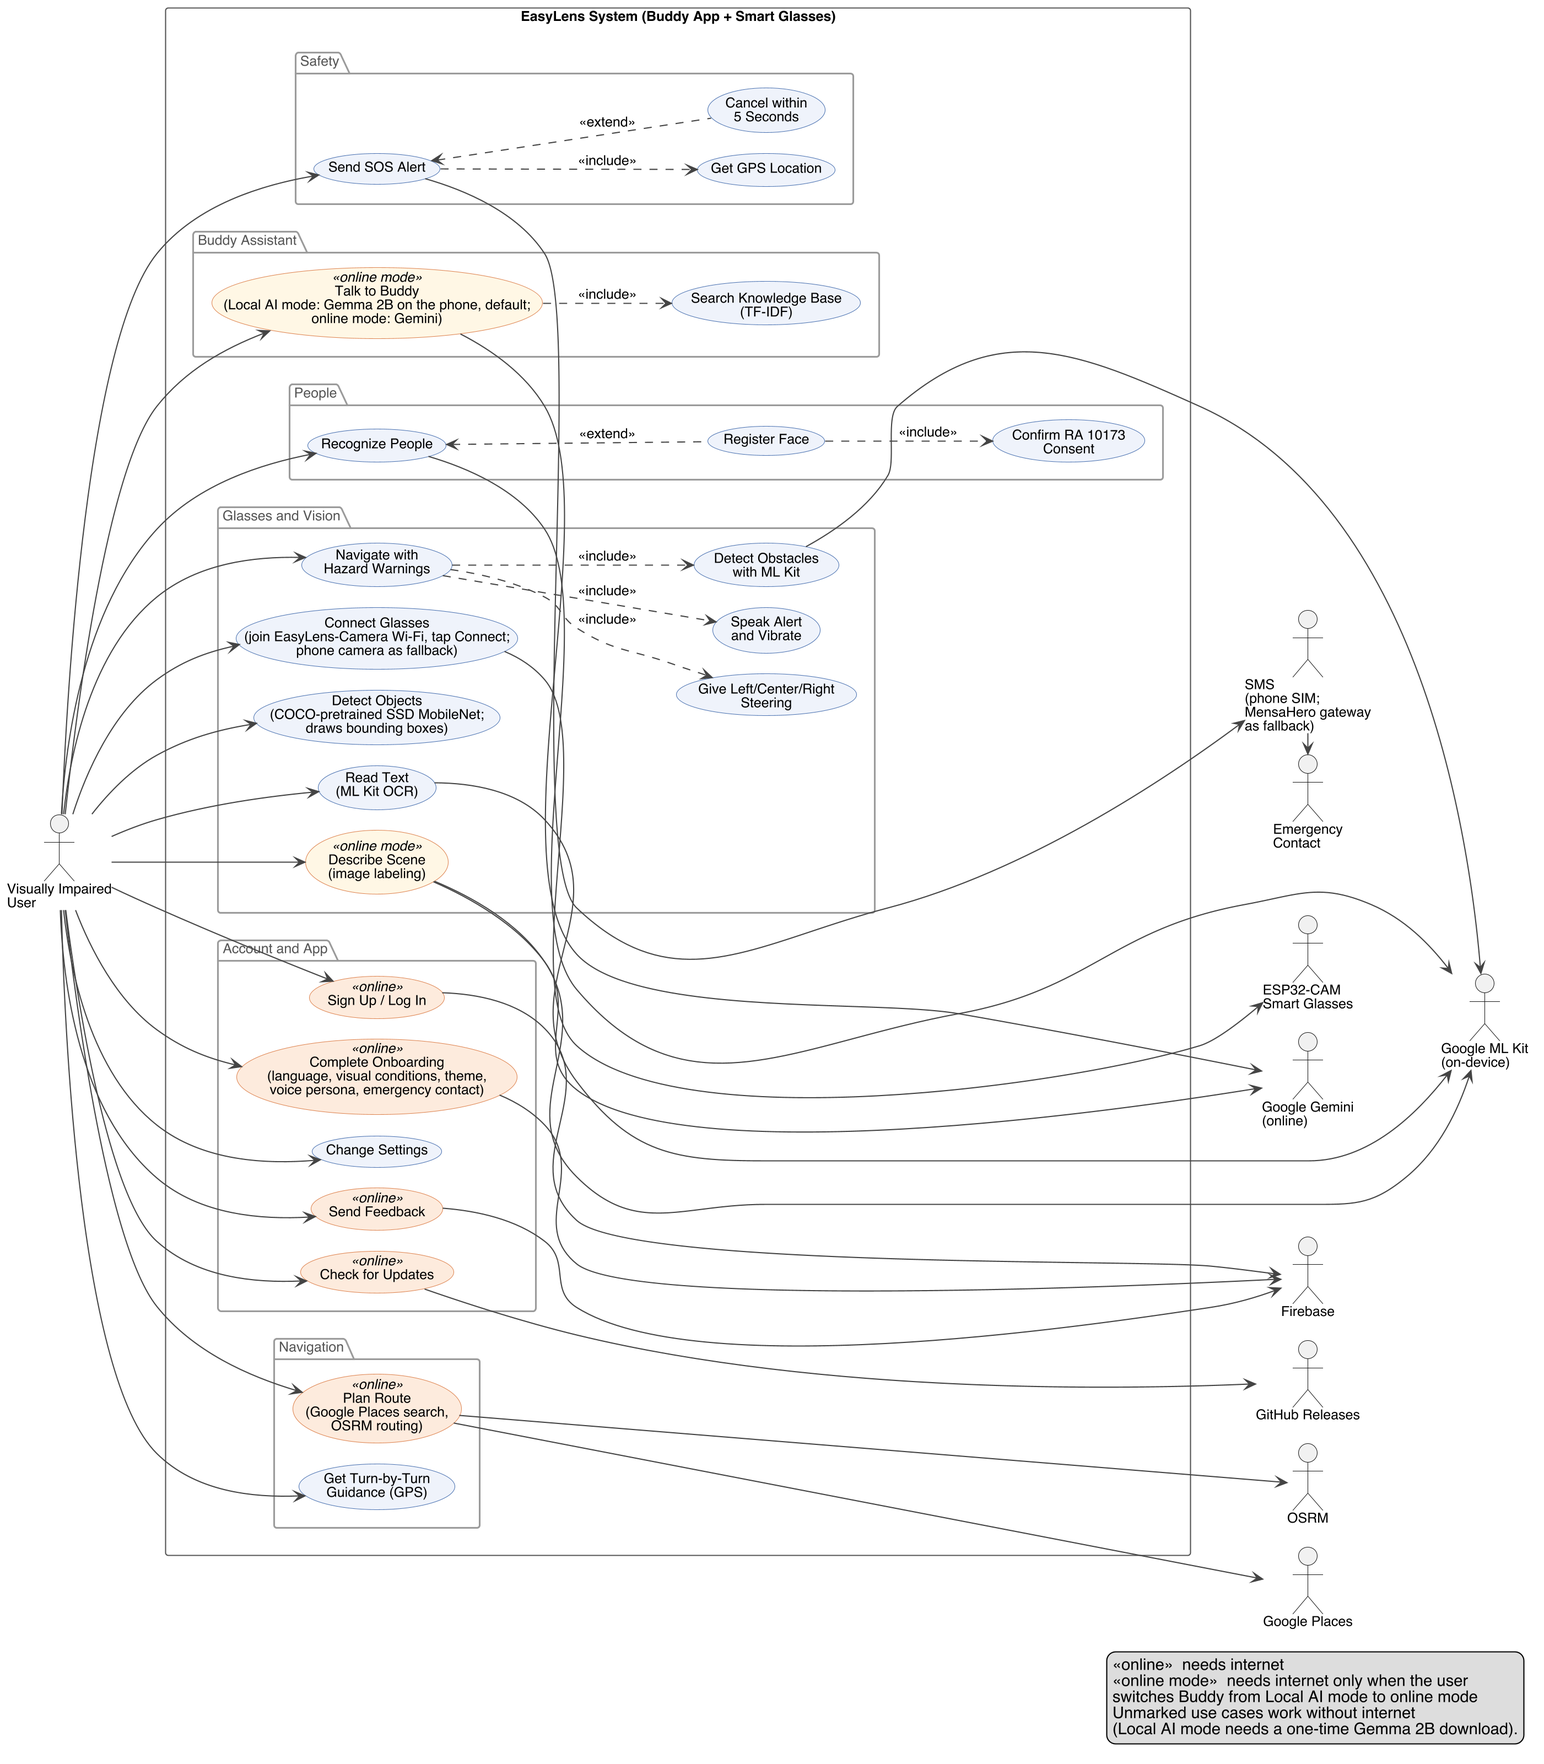
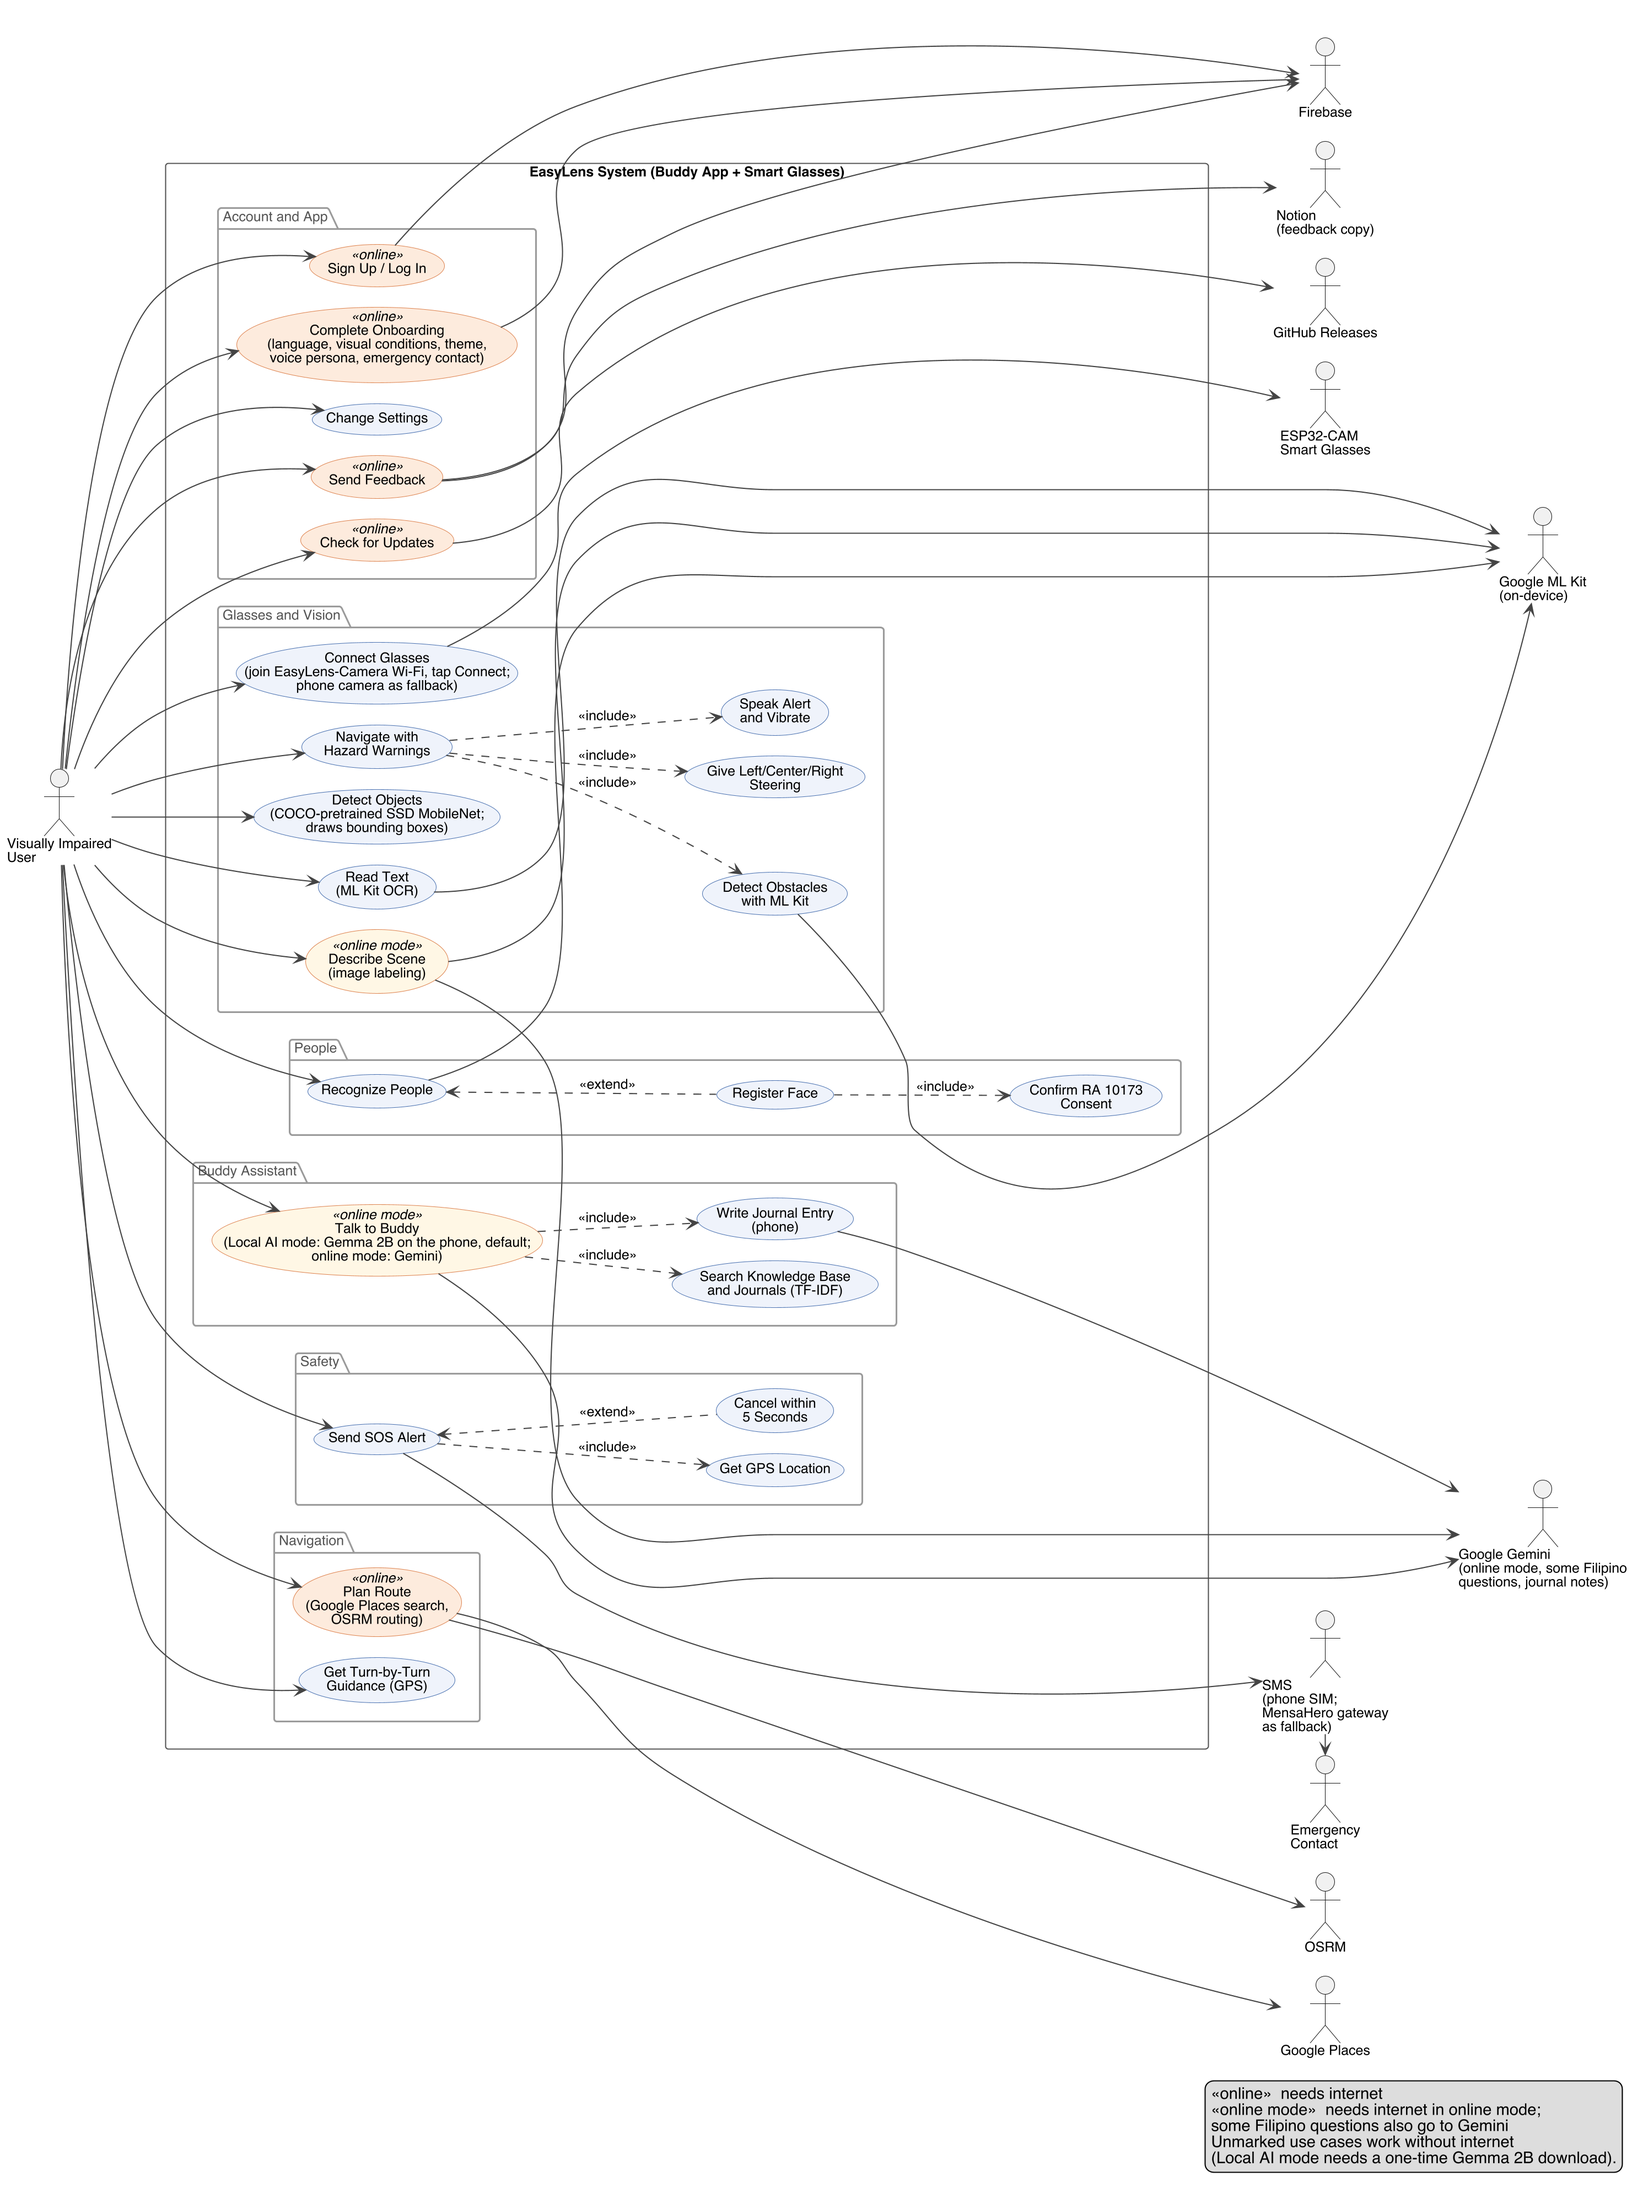
docs(figures): add journals, Notion and Gemini routing to D.2 and E.2

diff --git a/docs/figures/08_appendix_d_use_case_diagrams.md b/docs/figures/08_appendix_d_use_case_diagrams.md
@@ -76,7 +76,7 @@ UC8 --> Contact
 Figure D.2
 Detailed Architectural Use Case Diagram
 
-Note. Figure D.2 shows all user-facing use cases, their «include» and «extend» relationships, and the external systems each one uses. Use cases marked «online» need internet; those marked «online mode» need it only when the user switches Buddy from Local AI mode (the default) to online mode.
+Note. Figure D.2 shows all user-facing use cases, their «include» and «extend» relationships, and the external systems each one uses. Use cases marked «online» need internet; those marked «online mode» need it when the user switches Buddy from Local AI mode (the default) to online mode, and some Filipino questions also go to Gemini.
 ```
 
 ### Source (PlantUML)
@@ -115,11 +115,13 @@ actor "Firebase" as Firebase
 actor "GitHub Releases" as GitHub
 actor "ESP32-CAM\nSmart Glasses" as Glasses
 actor "Google ML Kit\n(on-device)" as MLKit
-actor "Google Gemini\n(online)" as Gemini
+actor "Google Gemini\n(online mode, some Filipino\nquestions, journal notes)" as Gemini
 actor "Google Places" as Places
 actor "OSRM" as OSRM
 actor "SMS\n(phone SIM;\nMensaHero gateway\nas fallback)" as SMS
 actor "Emergency\nContact" as Contact
+actor "Notion\n(feedback copy)" as Notion
+
 
 rectangle "EasyLens System (Buddy App + Smart Glasses)" {
   package "Account and App" {
@@ -146,7 +148,8 @@ rectangle "EasyLens System (Buddy App + Smart Glasses)" {
   }
   package "Buddy Assistant" {
     usecase "Talk to Buddy\n(Local AI mode: Gemma 2B on the phone, default;\nonline mode: Gemini)" as Talk <<online mode>>
-    usecase "Search Knowledge Base\n(TF-IDF)" as KB
+    usecase "Search Knowledge Base\nand Journals (TF-IDF)" as KB
+    usecase "Write Journal Entry\n(phone)" as Journal
   }
   package "Navigation" {
     usecase "Plan Route\n(Google Places search,\nOSRM routing)" as Route <<online>>
@@ -158,6 +161,8 @@ rectangle "EasyLens System (Buddy App + Smart Glasses)" {
     usecase "Cancel within\n5 Seconds" as Cancel
   }
 }
+
+
 
 User --> SignUp
 User --> Onboard
@@ -181,6 +186,7 @@ Nav ..> Alert : <<include>>
 Recognize <.. Register : <<extend>>
 Register ..> Consent : <<include>>
 Talk ..> KB : <<include>>
+Talk ..> Journal : <<include>>
 SOS ..> GPS : <<include>>
 SOS <.. Cancel : <<extend>>
 
@@ -194,6 +200,8 @@ Talk ----> Gemini
 SignUp ----> Firebase
 Onboard ----> Firebase
 Feedback ----> Firebase
+Feedback ----> Notion
+Journal ----> Gemini
 Route ----> Places
 Route ----> OSRM
 Updates ----> GitHub
@@ -202,8 +210,8 @@ SMS -> Contact
 
 legend right
   <<online>>  needs internet
-  <<online mode>>  needs internet only when the user
-  switches Buddy from Local AI mode to online mode
+  <<online mode>>  needs internet in online mode;
+  some Filipino questions also go to Gemini
   Unmarked use cases work without internet
   (Local AI mode needs a one-time Gemma 2B download).
 endlegend
@@ -219,7 +227,7 @@ endlegend
 | Sign Up / Log In | Visually Impaired User | Creates or opens an account with email and password or Google Sign-In through Firebase Authentication. | No |
 | Complete Onboarding | Visually Impaired User | Voice-guided sign-up steps: language, visual conditions, mobility aid, contrast theme, voice persona, units and an emergency contact. The answers are saved to Firebase Firestore. | No |
 | Change Settings | Visually Impaired User | Changes language, contrast theme, voice persona, units, haptics and voice feedback. Settings are stored on the phone. | Yes |
-| Send Feedback | Visually Impaired User | Submits the in-app feedback survey, saved to the Firestore `feedbacks` collection. | No |
+| Send Feedback | Visually Impaired User | Submits the in-app feedback survey (rating, subject, comment, with the user's name and email). It is saved in Firestore and a copy is sent to a Notion database. | No |
 | Check for Updates | Visually Impaired User | Asks the GitHub Releases API for the latest release and shows its version, release notes and APK download link. | No |
 | Connect Glasses | Visually Impaired User | The user joins the glasses' "EasyLens-Camera" Wi-Fi in phone settings, then taps Connect; the app reads the camera stream at 192.168.4.1:81/stream. The phone camera can be used instead. The glasses' Wi-Fi is local, so no internet is needed. | Yes |
 | Navigate with Hazard Warnings | Visually Impaired User | Scans camera frames for obstacles and hazards and warns the user. | Yes |
@@ -232,8 +240,9 @@ endlegend
 | Recognize People | Visually Impaired User | Detects faces with ML Kit and matches them against faces registered on the phone, then announces the person's name. | Yes |
 | Register Face | Visually Impaired User | Captures front, left and right views of a person's face and saves the name and face measurements on the phone only. | Yes |
 | Confirm RA 10173 Consent | (included) | Requires ticking the Data Privacy Act (RA 10173) consent box before a face can be registered. | Yes |
-| Talk to Buddy | Visually Impaired User | Answers spoken questions with Gemma 2B on the phone (Local AI mode, the default) or Google Gemini (online mode, chosen by the user). | Partly |
-| Search Knowledge Base (TF-IDF) | (included) | Finds the most relevant entries in Buddy's built-in knowledge base with TF-IDF and adds them to the question. | Yes |
+| Talk to Buddy | Visually Impaired User | Answers spoken questions with Gemma 2B on the phone (Local AI mode, the default) or Google Gemini (online mode, chosen by the user). Some Filipino questions are sent to Gemini in either mode. | Partly |
+| Search Knowledge Base and Journals (TF-IDF) | (included) | Finds the most relevant entries in Buddy's built-in knowledge base and in the last seven days of journals with TF-IDF, and adds them to the question. | Yes |
+| Write Journal Entry | (included) | Appends each question and answer to that day's journal file on the phone. When the phone is online, the exchange is also sent to Gemini to write a short note about the user; offline, a simple note is written instead. | Partly |
 | Plan Route | Visually Impaired User | Searches for the destination with Google Places and gets the route from OSRM. | No |
 | Get Turn-by-Turn Guidance | Visually Impaired User | Follows the user's GPS position along the route and speaks each turn. Needs a route already loaded; the map background needs internet. | Partly |
 | Send SOS Alert | Visually Impaired User | After a 5-second countdown, sends an SMS with a Google Maps link to the user's location to the emergency contact. It uses the phone's SIM first; the MensaHero internet gateway is only a fallback. | Yes |

diff --git a/docs/figures/09_appendix_e_data_flow_diagrams.md b/docs/figures/09_appendix_e_data_flow_diagrams.md
@@ -61,7 +61,7 @@ digraph E1 {
 Figure E.2
 Proposed EasyLens Wearable Edge-AI System Detailed Data Flow Diagram
 
-Note. Figure E.2 shows how data moves through EasyLens. Camera frames from the smart glasses reach the phone over the glasses' own Wi-Fi and are processed on the phone by Google ML Kit and an SSD MobileNet model. Results are spoken and signaled by vibration. Buddy answers questions with Gemma 2B on the phone by default, or with Google Gemini when the user chooses online mode. Settings, emergency contacts and registered faces are stored on the phone; registered faces are never uploaded. Account data, preferences, contacts and feedback are sent to Firebase, an optional profile photo is stored in Cloudflare R2, and route searches go to Google Places and OSRM. The Visually Impaired User entity appears twice to keep the diagram readable.
+Note. Figure E.2 shows how data moves through EasyLens. Camera frames from the smart glasses reach the phone over the glasses' own Wi-Fi and are processed on the phone by Google ML Kit and an SSD MobileNet model. Results are spoken and signaled by vibration. Buddy answers questions with Gemma 2B on the phone by default, or with Google Gemini when the user chooses online mode; some Filipino questions are also sent to Gemini, and each exchange is sent to Gemini to write a short journal note when the phone is online. Buddy's conversations and notes are kept as daily journal files on the phone (D4), and the last seven days are searched together with the knowledge base. Settings, emergency contacts and registered faces are stored on the phone; registered faces are never uploaded. Account data, preferences, emergency contacts and feedback are sent to Firebase, feedback is also copied to Notion, an optional profile photo is stored in Cloudflare R2, and route searches go to Google Places and OSRM. The Visually Impaired User entity appears twice to keep the diagram readable.
 ```
 
 ### Source (Graphviz)
@@ -78,7 +78,8 @@ digraph E2 {
   User    [label="Visually Impaired\nUser"];
   User2   [label="Visually Impaired\nUser"];
   GPS     [label="Phone GPS"];
-  Gemini  [label="Google Gemini\n(online mode only)"];
+  Gemini  [label="Google Gemini\n(online mode, some Filipino\nquestions, journal notes)"];
+  Notion  [label="Notion\n(feedback copy)"];
   Maps    [label="Google Places\nand OSRM"];
   Firebase[label="Firebase\n(Auth, Firestore)"];
   Contact [label="Emergency\nContact"];
@@ -100,6 +101,7 @@ digraph E2 {
   node [shape=plaintext, style="", fillcolor=white];
   D1 [label=<<table border="0" cellborder="1" cellspacing="0" cellpadding="5" color="#555555"><tr><td bgcolor="#F2F2F2"><b>D1</b></td><td sides="TBR">Settings and Emergency Contacts (phone)</td></tr></table>>];
   D2 [label=<<table border="0" cellborder="1" cellspacing="0" cellpadding="5" color="#555555"><tr><td bgcolor="#F2F2F2"><b>D2</b></td><td sides="TBR">Registered Faces (phone only)</td></tr></table>>];
+  D4 [label=<<table border="0" cellborder="1" cellspacing="0" cellpadding="5" color="#555555"><tr><td bgcolor="#F2F2F2"><b>D4</b></td><td sides="TBR">Interaction Journals (phone)</td></tr></table>>];
   D3 [label=<<table border="0" cellborder="1" cellspacing="0" cellpadding="5" color="#555555"><tr><td bgcolor="#F2F2F2"><b>D3</b></td><td sides="TBR">Buddy Knowledge Base (bundled)</td></tr></table>>];
 
   // Vision pipeline
@@ -117,9 +119,12 @@ digraph E2 {
   // Buddy
   User -> P5 [label="spoken question"];
   D3 -> P5 [label="matching entries"];
-  P5 -> Gemini [label="question + context"];
+  P5 -> Gemini [label="question + context\n(+ camera image in online mode);\nexchange for journal note"];
   Gemini -> P5 [label="answer"];
   P5 -> P6 [label="answer text"];
+  P5 -> D4 [label="question, answer,\njournal note"];
+  D4 -> P5 [label="matching journal entries\n(last 7 days)"];
+  P7 -> D4 [label="visited place"];
 
   // Navigation
   User -> P7 [label="destination"];
@@ -140,6 +145,7 @@ digraph E2 {
   P9 -> Firebase [label="profile, preferences,\ncontacts, feedback"];
   Firebase -> P9 [label="login, saved profile"];
   P9 -> R2 [label="profile photo\n(optional)"];
+  P9 -> Notion [label="feedback"];
   D1 -> P6 [label="language, voice"];
 
   P6 -> User2 [label="speech and vibration"];
